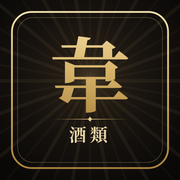
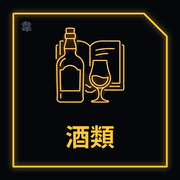
頁首主視覺 kv.js＋Gemini 新圖標

diff --git a/nav.js b/nav.js
@@ -297,3 +297,6 @@
  if(document.readyState==='loading') document.addEventListener('DOMContentLoaded',strip); else strip();
  setTimeout(strip,1500);
 })();
+
+/* 頁首主視覺：job/kv.js 決定哪幾頁要放 */
+(function(){if(window.__xwKVL)return;window.__xwKVL=1;var s=document.createElement("script");s.src="https://xsos32-design.github.io/job/kv.js";s.defer=true;document.head.appendChild(s);})();
